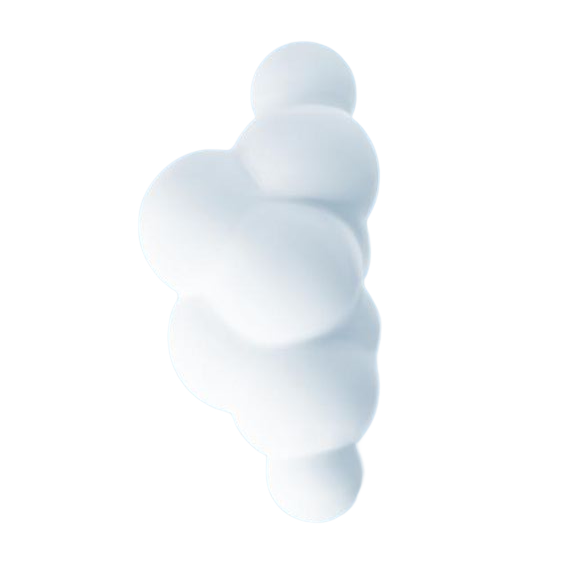
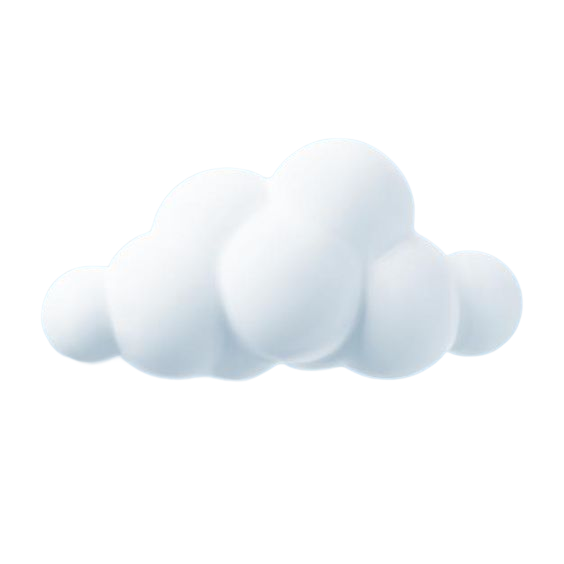
Eight Commit

Changed region(s): [[0.0603, 0.0603, 0.9344, 0.9344]]

diff --git a/lib/screens/auth/login_screen.dart b/lib/screens/auth/login_screen.dart
@@ -17,13 +17,49 @@ class LoginScreen extends StatelessWidget {
       body: SafeArea(
         child: Stack(
           children: [
-            // ================= CLOUDS =================
+            //  CLOUD LEFT
+            Positioned(
+              top: 212,
+              left: -43,
+              child: Opacity(
+                opacity: 0.53,
+                child: Image.asset(
+                  AssetPaths.loginCloud1,
+                  width: 250,
+                  height: 250,
+                ),
+              ),
+            ),
+
+            // ================= CLOUD CENTER =================
+            Positioned(
+              top: 202,
+              left: 101,
+              child: Opacity(
+                opacity: 0.53,
+                child: Image.asset(
+                  AssetPaths.loginCloud2,
+                  width: 250,
+                  height: 250,
+                ),
+              ),
+            ),
+
+            // ================= CLOUD RIGHT =================
             Positioned(
               top: 240,
-              left: 0,
-              right: 0,
-
-              child: Image.asset(AssetPaths.loginCloud1, fit: BoxFit.contain),
+              right: -40,
+              child: Transform.rotate(
+                angle: 3.14,
+                child: Opacity(
+                  opacity: 0.43,
+                  child: Image.asset(
+                    AssetPaths.loginCloud3,
+                    width: 175,
+                    height: 175,
+                  ),
+                ),
+              ),
             ),
 
             // ================= CONTENT =================

diff --git a/lib/screens/auth/google_popup_screen.dart b/lib/screens/auth/google_popup_screen.dart
@@ -1,0 +1,55 @@
+import 'package:flutter/material.dart';
+
+class GooglePopupScreen extends StatelessWidget {
+  const GooglePopupScreen({super.key});
+
+  @override
+  Widget build(BuildContext context) {
+    return Dialog(
+      shape: RoundedRectangleBorder(borderRadius: BorderRadius.circular(24)),
+      child: Container(
+        padding: const EdgeInsets.all(24),
+        decoration: BoxDecoration(
+          color: const Color(0xFFFFF8E4),
+          borderRadius: BorderRadius.circular(24),
+        ),
+        child: Column(
+          mainAxisSize: MainAxisSize.min,
+          children: [
+            const Icon(Icons.g_mobiledata, size: 52, color: Colors.blue),
+
+            const SizedBox(height: 12),
+
+            const Text(
+              'Pilih akun Google',
+              style: TextStyle(fontSize: 22, fontWeight: FontWeight.w700),
+            ),
+
+            const SizedBox(height: 8),
+
+            const Text(
+              'Untuk melanjutkan ke Fokusin',
+              style: TextStyle(fontSize: 14),
+            ),
+
+            const SizedBox(height: 26),
+
+            ListTile(
+              leading: const CircleAvatar(),
+              title: const Text('Anna syla'),
+              subtitle: const Text('annasyla@gmail.com'),
+              onTap: () {},
+            ),
+
+            const Divider(),
+
+            TextButton(
+              onPressed: () {},
+              child: const Text('Tambahkan akun lain'),
+            ),
+          ],
+        ),
+      ),
+    );
+  }
+}

diff --git a/lib/widgets/common/custom_textfield.dart b/lib/widgets/common/custom_textfield.dart
@@ -1,0 +1,36 @@
+import 'package:flutter/material.dart';
+
+class CustomTextField extends StatelessWidget {
+  final String hintText;
+  final bool obscureText;
+
+  const CustomTextField({
+    super.key,
+    required this.hintText,
+    this.obscureText = false,
+  });
+
+  @override
+  Widget build(BuildContext context) {
+    return Container(
+      height: 55,
+      decoration: BoxDecoration(
+        color: const Color(0xFFD8EEFF),
+        borderRadius: BorderRadius.circular(20),
+        border: Border.all(color: const Color(0xFF2F9BF4), width: 1.5),
+      ),
+      child: TextField(
+        obscureText: obscureText,
+        decoration: InputDecoration(
+          hintText: hintText,
+          hintStyle: const TextStyle(color: Color(0xFF7AA7C7), fontSize: 13),
+          border: InputBorder.none,
+          contentPadding: const EdgeInsets.symmetric(
+            horizontal: 18,
+            vertical: 16,
+          ),
+        ),
+      ),
+    );
+  }
+}

diff --git a/lib/widgets/common/primary_button.dart b/lib/widgets/common/primary_button.dart
@@ -1,0 +1,34 @@
+import 'package:flutter/material.dart';
+
+class PrimaryButton extends StatelessWidget {
+  final String text;
+  final VoidCallback onTap;
+
+  const PrimaryButton({super.key, required this.text, required this.onTap});
+
+  @override
+  Widget build(BuildContext context) {
+    return SizedBox(
+      width: double.infinity,
+      height: 58,
+      child: ElevatedButton(
+        style: ElevatedButton.styleFrom(
+          backgroundColor: const Color(0xFF2F9BF4),
+          shape: RoundedRectangleBorder(
+            borderRadius: BorderRadius.circular(30),
+            side: const BorderSide(color: Colors.white, width: 2),
+          ),
+        ),
+        onPressed: onTap,
+        child: Text(
+          text,
+          style: const TextStyle(
+            fontSize: 16,
+            fontWeight: FontWeight.w600,
+            color: Colors.white,
+          ),
+        ),
+      ),
+    );
+  }
+}

diff --git a/lib/core/constants/asset_paths.dart b/lib/core/constants/asset_paths.dart
@@ -1,5 +1,5 @@
 class AssetPaths {
-  // ================= IMAGES =================
+  //  IMAGES
 
   static const waveOnboarding1 = 'assets/images/wave_onboarding1.png';
 
@@ -13,7 +13,7 @@ class AssetPaths {
 
   static const background2 = 'assets/images/background_2.png';
 
-  // ================= LOGIN / REGISTER =================
+  // LOGIN / REGISTER
 
   static const loginCharacter = 'assets/images/login_character.png';
 
@@ -23,7 +23,7 @@ class AssetPaths {
 
   static const loginCloud3 = 'assets/images/login_cloud3.png';
 
-  // ================= OTHER IMAGES =================
+  //  OTHER IMAGES
 
   static const gambar2 = 'assets/images/gambar2.png';
 
@@ -41,7 +41,7 @@ class AssetPaths {
 
   static const gambar9 = 'assets/images/gambar9.png';
 
-  // ================= ICONS =================
+  //  ICONS
 
   static const iconGoogle = 'assets/icons/icon_google.svg';
 

diff --git a/lib/widgets/onboarding/onboarding_indicator.dart/onboarding_indicator.dart b/lib/widgets/onboarding/onboarding_indicator.dart/onboarding_indicator.dart
@@ -1,0 +1,29 @@
+// import 'package:flutter/material.dart';
+
+// class OnboardingIndicator extends StatelessWidget {
+//   final bool isActive;
+
+//   const OnboardingIndicator({super.key, required this.isActive});
+
+//   @override
+//   Widget build(BuildContext context) {
+//     return AnimatedContainer(
+//       duration: const Duration(milliseconds: 250),
+
+//       margin: const EdgeInsets.symmetric(horizontal: 4),
+
+//       width: isActive ? 34 : 10,
+//       height: 10,
+
+//       decoration: BoxDecoration(
+//         color: isActive ? const Color(0xFF2F9BF4) : Colors.white,
+
+//         borderRadius: BorderRadius.circular(20),
+
+//         border: isActive
+//             ? Border.all(color: const Color(0xFFFFD600), width: 2)
+//             : null,
+//       ),
+//     );
+//   }
+// }

diff --git a/lib/widgets/onboarding/onboarding_wave.dart b/lib/widgets/onboarding/onboarding_wave.dart
@@ -1,0 +1,17 @@
+import 'package:flutter/material.dart';
+
+class OnboardingWave extends StatelessWidget {
+  final String image;
+
+  const OnboardingWave({super.key, required this.image});
+
+  @override
+  Widget build(BuildContext context) {
+    return Positioned(
+      bottom: 0,
+      left: 0,
+      right: 0,
+      child: Image.asset(image, fit: BoxFit.cover),
+    );
+  }
+}

diff --git a/lib/widgets/onboarding/onboarding_character.dart b/lib/widgets/onboarding/onboarding_character.dart
@@ -1,0 +1,12 @@
+import 'package:flutter/material.dart';
+
+class OnboardingCharacter extends StatelessWidget {
+  final String image;
+
+  const OnboardingCharacter({super.key, required this.image});
+
+  @override
+  Widget build(BuildContext context) {
+    return Image.asset(image, width: 260, fit: BoxFit.contain);
+  }
+}
